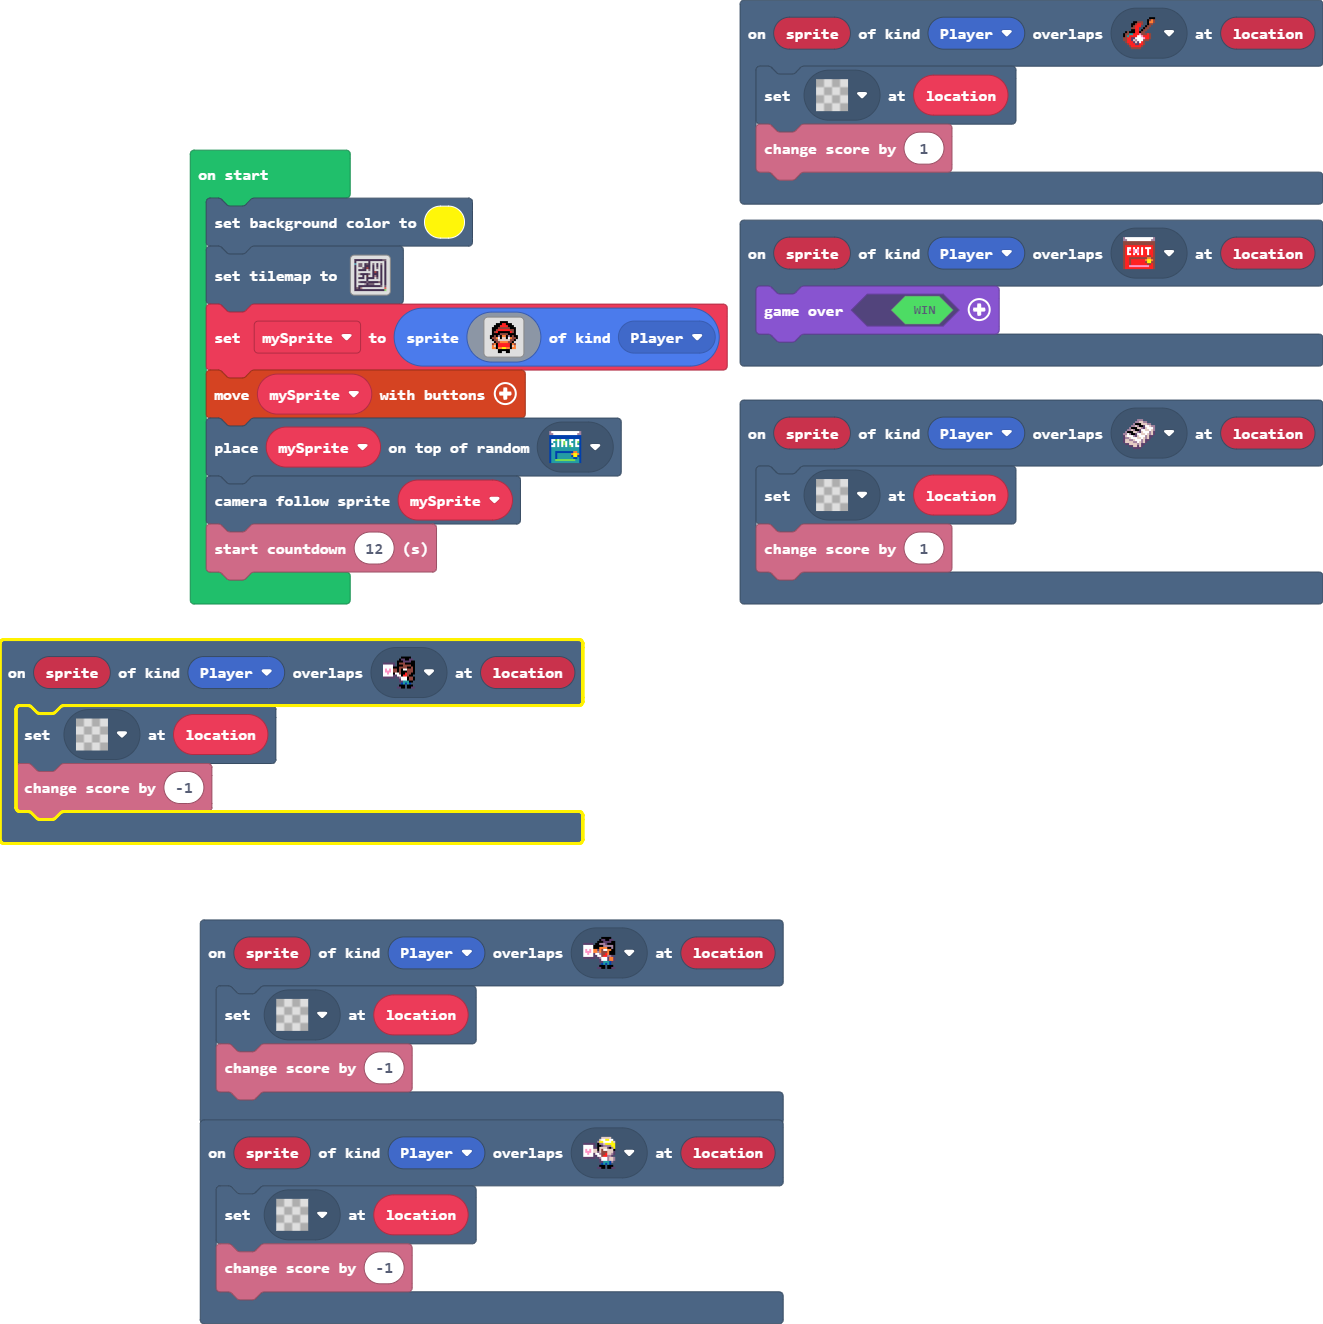
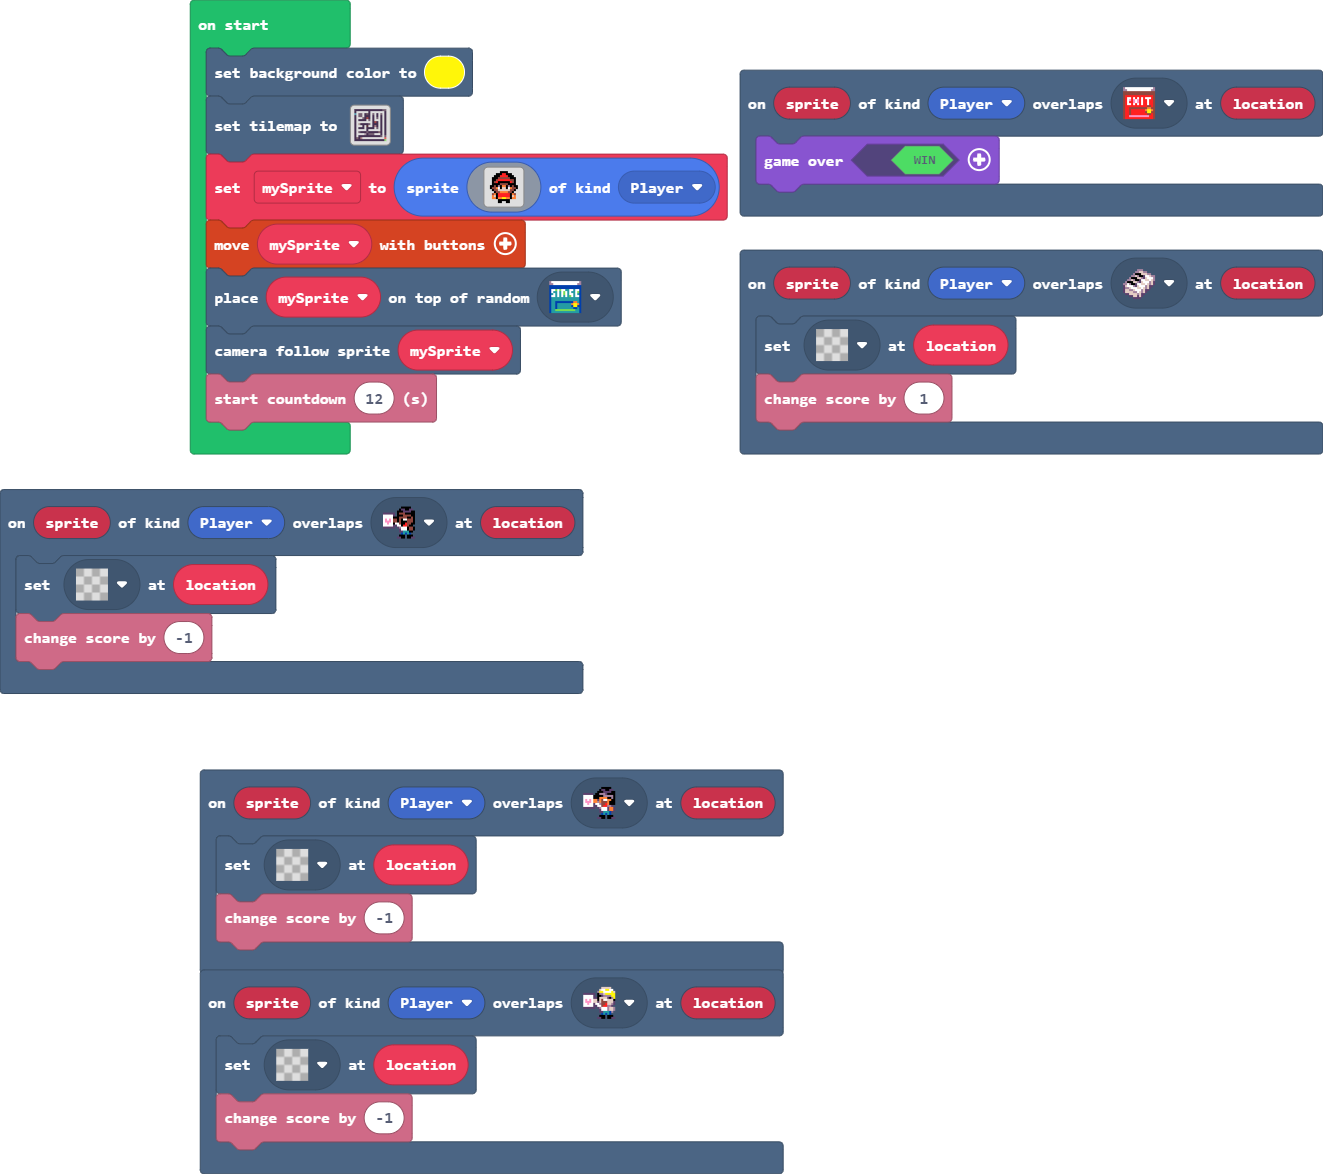
deleted a bunch

diff --git a/main.ts b/main.ts
@@ -2,10 +2,6 @@ scene.onOverlapTile(SpriteKind.Player, assets.tile`instrument4`, function (sprit
     tiles.setTileAt(location, assets.tile`transparency16`)
     info.changeScoreBy(1)
 })
-scene.onOverlapTile(SpriteKind.Player, assets.tile`instrument1`, function (sprite, location) {
-    tiles.setTileAt(location, assets.tile`transparency16`)
-    info.changeScoreBy(1)
-})
 scene.onOverlapTile(SpriteKind.Player, assets.tile`fan2`, function (sprite, location) {
     tiles.setTileAt(location, assets.tile`transparency16`)
     info.changeScoreBy(-1)
